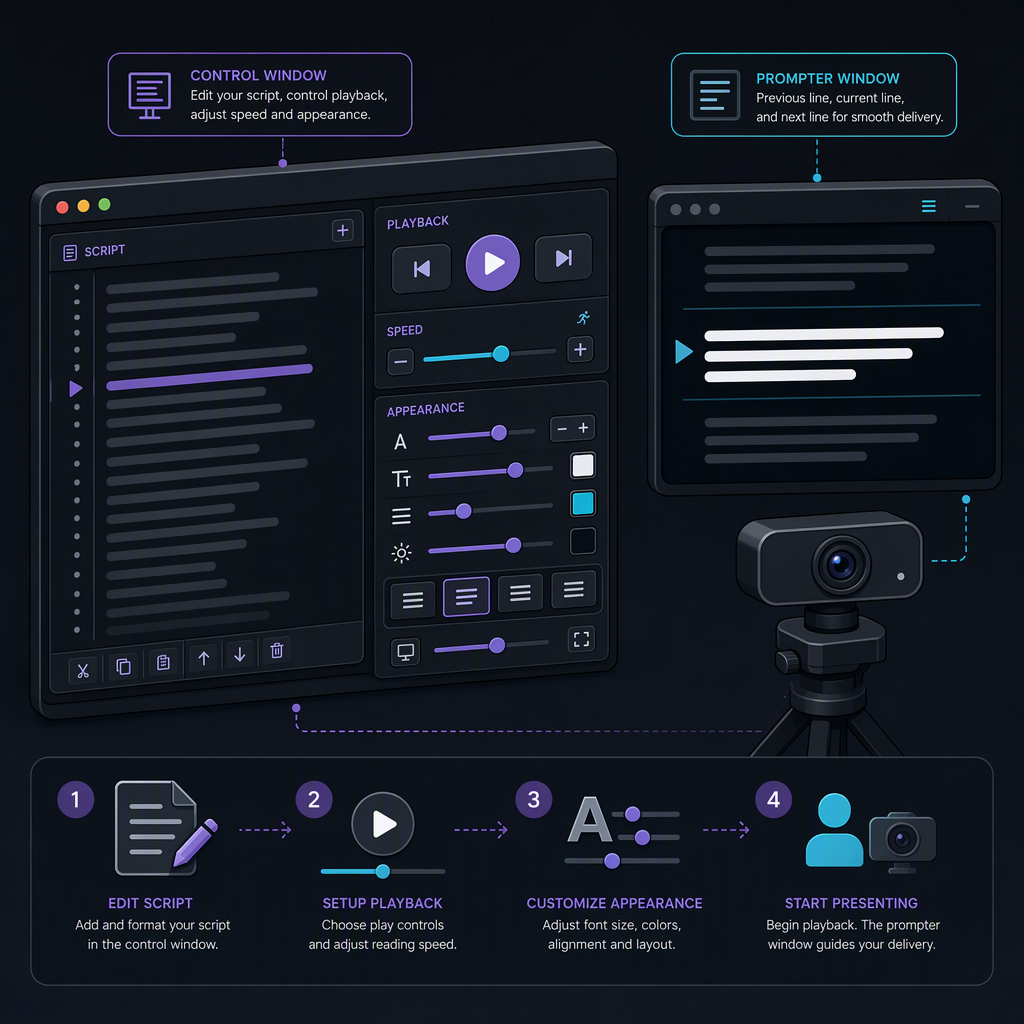
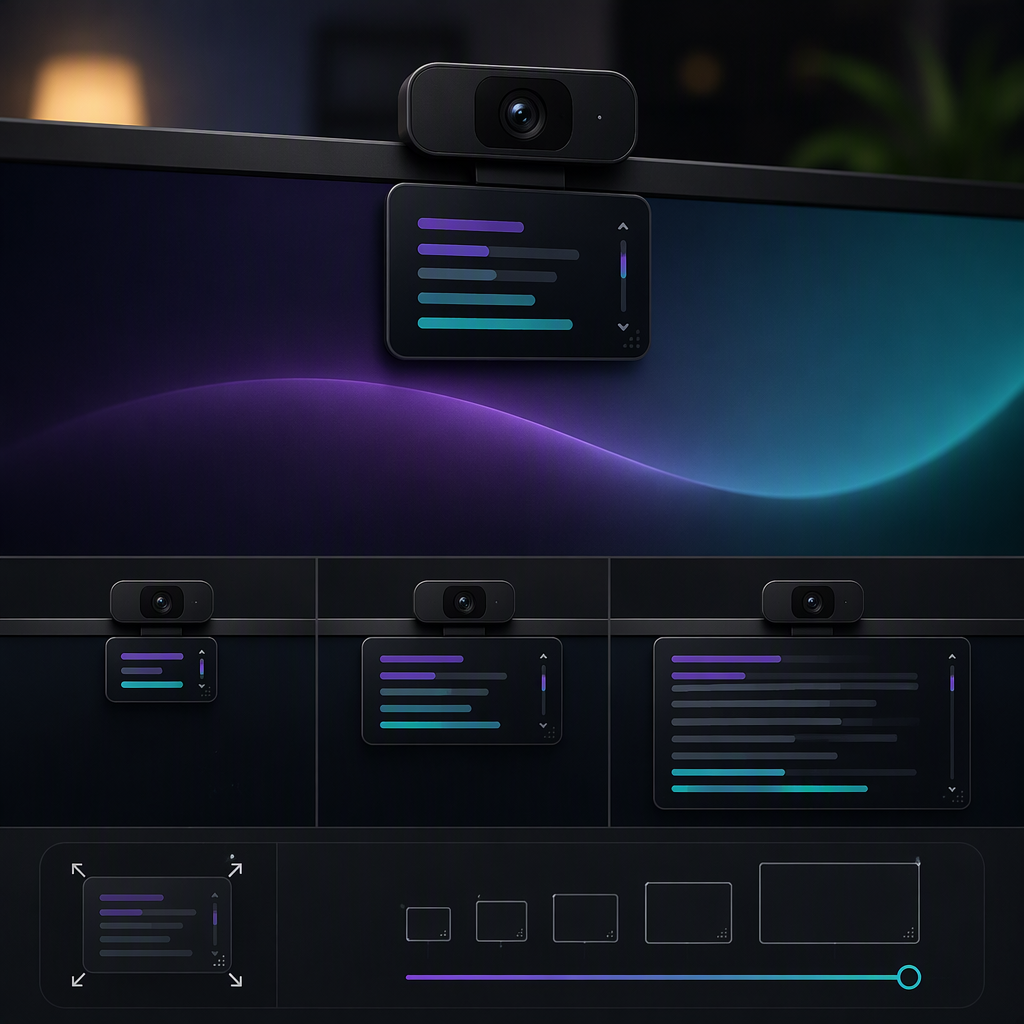
Update repo positioning and release messaging
Copilot-Session: 475ccaa8-5bf1-4384-b6f1-020eedad89c5

diff --git a/README.md b/README.md
@@ -4,15 +4,27 @@
 
 PromptDot is a small cross-platform desktop teleprompter for recording technical videos, presentations, demos, courses, podcasts, and social media videos while keeping your eye line close to the webcam.
 
+PromptDot keeps the script in a compact, resizable window directly under the webcam, so it feels like a natural reading surface rather than a full-screen slide.
+
 <p align="center">
   <img
     src="docs/assets/promptdot-hero.png"
-    alt="PromptDot teleprompter positioned close to a webcam above a laptop"
+    alt="PromptDot teleprompter concept showing a compact app window beneath the camera on a laptop monitor"
     width="720">
 </p>
 
+## Download ready-to-use builds
+
+We publish desktop packages for the main platforms so users can download and run PromptDot without building from source.
+
+- Windows x64
+- Linux x64
+- macOS ARM64
+
+Download the latest release from [GitHub Releases](https://github.com/elbruno/PromptDot/releases). Extract the package for your operating system and run the included executable.
+
 > [!NOTE]
-> PromptDot v0.1 is implemented and available from source. Prebuilt installers and signed release packages are not published yet.
+> Source builds are still supported for advanced users and contributors. The ready-to-use packages are the recommended path for normal users.
 
 ## Features
 

diff --git a/docs/installation.md b/docs/installation.md
@@ -1,6 +1,16 @@
 # PromptDot installation guide
 
-PromptDot v0.1 is currently distributed as source code. There is no prebuilt installer or signed release package yet.
+PromptDot v0.1 is distributed as ready-to-use desktop packages for Windows, Linux, and macOS. Users can download the appropriate zip file from the GitHub releases page, extract it, and run the application without compiling from source.
+
+## Download the latest release
+
+Go to [GitHub Releases](https://github.com/elbruno/PromptDot/releases) and download the package that matches your operating system:
+
+- Windows x64
+- Linux x64
+- macOS ARM64
+
+After downloading the zip, extract it and run the executable in the extracted folder.
 
 ## Requirements
 
